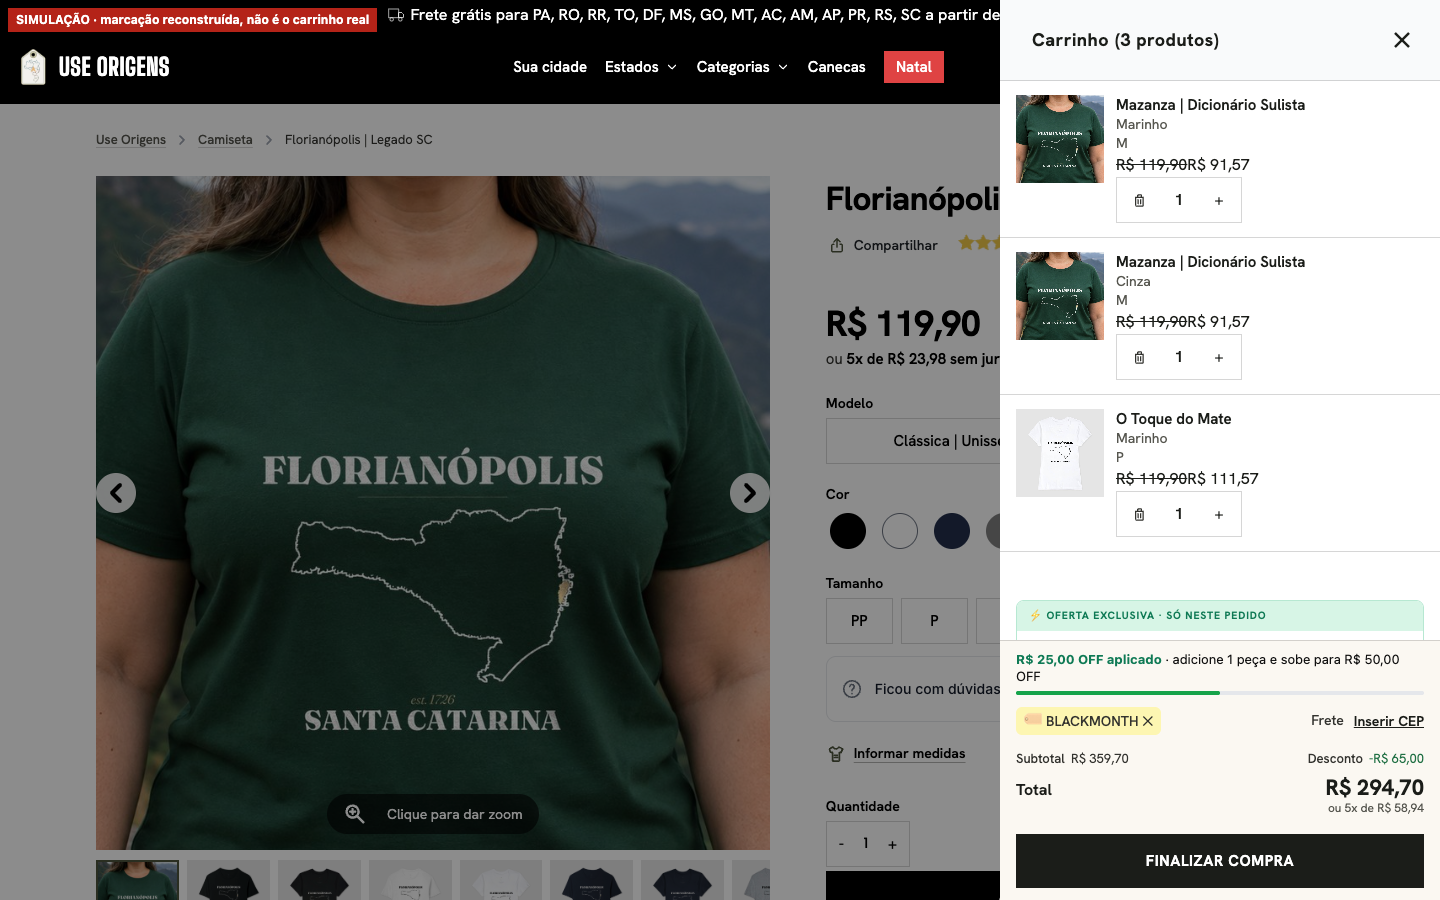
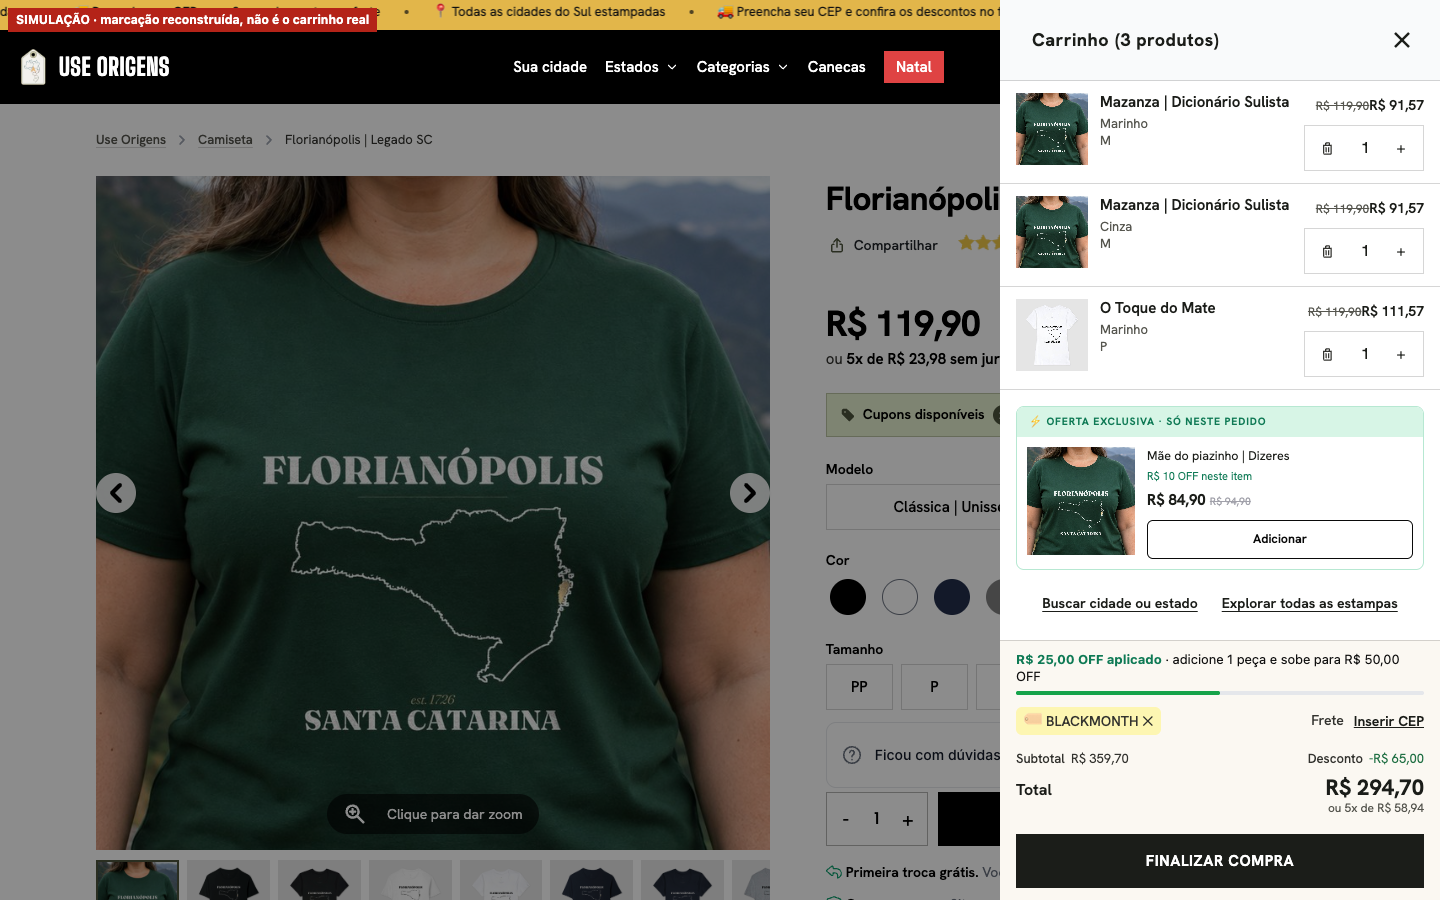
feat(carrinho, pdp): itens compactos na gaveta e quantidade na linha do botão de compra
- Gaveta: cada item em grade (foto 72 px; nome e variação à esquerda; preço e
  quantidade empilhados à direita), sem as folgas da INK: ~175 → 118 px por
  item, e a oferta exclusiva sobe para acima do rodapé com 3 peças no celular.
  Botões de quantidade seguem com 44 px.
- PDP: a quantidade sai do fim das escolhas e vai para a linha do botão
  ([− 1 +] [Adicionar ao carrinho]), no mesmo form; texto do botão numa linha
  em 360 px.
- Prévia: as features da produção (size-fit desligada desde 31/10).

diff --git a/src/theme.js b/src/theme.js
@@ -288,6 +288,7 @@ function cookieCss() {
 function pdpCss() {
   const F = P + ' form[id^="form-product-"]';
   const T = F + ' .form-product-options__select-type';
+  const Q = F + ' .form-product-options__add-to-cart:has(> [data-origens-qty])';
   return [
     stripCss(P), headerCss(),
     P + '{background:var(--o-ground);color:var(--o-ink);font-family:var(--o-font)}',
@@ -346,7 +347,7 @@ function pdpCss() {
     F + ' > .flex.flex-col.items-start.gap-1 p.font-medium.text-base{color:var(--o-ink-soft);font-size:15px;font-weight:400}',
     F + ' > .flex.flex-col.items-start.gap-1 :is(.text-green-500,.lg\\:text-green-600){color:var(--o-ink)!important;font-weight:600}',
     F + ' del,' + F + ' .line-through{color:var(--o-ink-mute)}',
-    // Escolhas: uma coluna (modelo › cor › tamanho › medidas › quantidade — a quantidade é posta depois das medidas no DOM pelo theme-ui).
+    // Escolhas: uma coluna (modelo › cor › tamanho › medidas). A quantidade vai para a linha do botão de compra (theme-ui, data-origens-qty).
     T + '{flex-direction:column!important;flex-wrap:nowrap!important;align-items:stretch!important;gap:20px!important;margin-bottom:4px!important}',
     T + ' > div:has(#open-modal-size){margin-top:-10px}',
     T + ' p strong,' + T + ' p{' + groupLabel + '}',
@@ -368,8 +369,20 @@ function pdpCss() {
     T + ' #open-modal-size,' + T + ' button[data-origens-fit]{min-height:44px!important;padding:0!important;border:0!important;background:transparent!important;box-shadow:none!important;color:var(--o-ink)!important;font-size:14px!important;font-weight:600!important;width:auto!important;flex:0 0 auto!important;gap:8px!important}',
     T + ' #open-modal-size .o-size-label,' + T + ' button[data-origens-fit] > span{text-decoration:underline!important;text-underline-offset:4px;text-decoration-color:var(--o-line)!important}',
     T + ' #open-modal-size .o-size-chevron{display:none}',
-    // Quantidade discreta.
+    // Quantidade discreta (onde a INK a deixa, sem o theme-ui).
     T + ' .inline-flex.items-center.px-3.border-solid{border:1px solid var(--o-line-soft)!important;border-radius:var(--o-radius)!important;min-height:44px;background:var(--o-surface)}',
+    // Quantidade NA LINHA do botão ([− 1 +] [Adicionar ao carrinho], o padrão do celular), quando o theme-ui a move para antes do botão: mesma altura do
+    // botão, o rótulo "Quantidade" só para leitor de tela; a confiança e os pagamentos continuam embaixo, na largura toda. Sem o atributo, como a INK desenha.
+    Q + '{flex-direction:row!important;flex-wrap:wrap;align-items:stretch;column-gap:10px!important;row-gap:18px!important}',
+    Q + ' > [data-origens-qty]{flex:0 0 auto;gap:0!important}',
+    Q + ' > [data-origens-qty] > p{position:absolute;width:1px;height:1px;margin:0;overflow:hidden;clip:rect(0 0 0 0);white-space:nowrap}',
+    Q + ' > [data-origens-qty] > div{flex:1 1 auto}',
+    Q + ' > [data-origens-qty] .inline-flex.items-center{height:100%;min-height:52px;padding:0 2px!important;border:1px solid var(--o-line)!important;border-radius:var(--o-radius)!important;background:var(--o-surface)}',
+    Q + ' > [data-origens-qty] button{width:34px!important;min-width:0!important;min-height:44px;margin:0!important;padding:0!important;font-size:20px;color:var(--o-ink)}',
+    Q + ' > [data-origens-qty] input[name="quantity"]{width:28px!important;height:44px!important;margin:0!important;padding:0!important;font-size:16px!important;color:var(--o-ink)}',
+    // O texto do botão numa linha só em 360 px: o recuo lateral menor (era 24 px) e sem quebra; em telas menores ele ainda pode quebrar.
+    Q + ' > #add-to-cart-desk{flex:1 1 0;min-width:0;width:auto!important;padding:0 10px!important;letter-spacing:.02em}',
+    Q + ' > :not([data-origens-qty]):not(#add-to-cart-desk){flex:1 0 100%}',
     // CTA: largura total da coluna; mesmo botão, mesmo clique e mesma validação da INK.
     btn(F + ' #add-to-cart-desk,' + F + ' #add-to-cart-mob'),
     F + ' #add-to-cart-desk{width:100%;max-width:none}',
@@ -420,6 +433,7 @@ function pdpCss() {
 
 function cartCss() {
   const D = C + ' .cart-drawer';
+  const ITEM = D + '__main .main-list__item .item-wrapper:has(> header > div > .item-details):has(> .item-details__footer)';
   const PAIR = D + '__footer[data-origens-pair]:not(:has(> #cep-form [data-ink-store--cart-target="cepInputContainer"]:not(.hidden)))';
   return [
     // Painel: compra em primeiro plano. Cabeçalho enxuto; itens separados por linha fina; rodapé com o resumo e UMA ação principal.
@@ -432,21 +446,27 @@ function cartCss() {
     D + '__header .top-header > span .text-gray-500{color:var(--o-ink-mute)!important;font-weight:400;font-size:14px!important}',
     D + '__header #cart-drawer-close{width:28px!important;height:28px!important;min-width:28px;cursor:pointer;color:var(--o-ink)}',
     D + '__main{background:var(--o-surface)!important}',
-    D + '__main .main-list__item{border-bottom:1px solid var(--o-line-soft);padding:14px 16px!important;gap:12px}',
-    D + '__main .main-list__item > img{width:88px!important;height:88px!important;max-width:88px;flex:0 0 88px;object-fit:cover;background:var(--o-photo);border-radius:var(--o-radius)}',
-    D + '__main .main-list__item .item-wrapper .item-header{font-size:15px;font-weight:600;color:var(--o-ink)}',
-    D + '__main .main-list__item .item-wrapper .item-details > span,' + D + '__main .main-list__item .item-wrapper .item-details p{color:var(--o-ink-mute);font-size:14px}',
-    D + '__main .main-list__item .item-wrapper .item-details > p:first-child{color:var(--o-ink);font-weight:600;font-size:15px}',
-    D + '__main .main-list__item .item-wrapper .item-details .price span{color:var(--o-ink);font-weight:600}',
-    // Preço numa linha só, mesmo com nome longo (o nome é que quebra).
-    D + '__main .main-list__item .item-wrapper .price-details{flex:0 0 auto;padding-left:8px}',
-    D + '__main .main-list__item .item-wrapper :is(.price,.price span,.price del){white-space:nowrap}',
-    D + '__main .main-list__item .item-wrapper .item-details > :is(span,p){line-height:1.35}',
-    D + '__main .main-list__item .item-wrapper .item-details .price del{color:var(--o-ink-mute)}',
+    // Item compacto (marcação real de 08/11/2026: img + .item-wrapper > header > div > [.item-details, preço] + .item-details__footer): foto de 72 px;
+    // nome e variação à esquerda; preço e quantidade empilhados à direita. Antes cada item tinha ~175 px de altura e empurrava a oferta exclusiva para
+    // baixo do rodapé. A grade só vale com essa estrutura (:has); outra marcação fica no fluxo de antes.
+    D + '__main .main-list__item{border-bottom:1px solid var(--o-line-soft);padding:12px 16px!important;gap:12px;align-items:flex-start}',
+    D + '__main .main-list__item > img{width:72px!important;height:72px!important;max-width:72px;flex:0 0 72px;object-fit:cover;background:var(--o-photo);border-radius:var(--o-radius)}',
+    ITEM + '{display:grid!important;grid-template-columns:minmax(0,1fr) auto;grid-template-rows:auto 1fr;column-gap:12px;row-gap:8px;align-items:start;min-height:72px}',
+    ITEM + ' > header,' + ITEM + ' > header > div{display:contents!important}',
+    ITEM + ' .item-details{grid-column:1;grid-row:1 / 3;min-width:0;gap:0!important}',
+    ITEM + ' > header > div > :not(.item-details){grid-column:2;grid-row:1;justify-self:end;text-align:right;padding:0!important}',
+    ITEM + ' > .item-details__footer{grid-column:2;grid-row:2;align-self:end;justify-self:end;margin:0!important;padding:0!important}',
+    D + '__main .main-list__item .item-wrapper .item-details p{margin:0;padding:0!important;color:var(--o-ink-mute);font-size:13px;line-height:1.35}',
+    ITEM + ' > .item-details__footer :is(form,form > div){margin:0!important;padding:0!important}',
+    D + '__main .main-list__item .item-wrapper .item-details > p:first-child{margin-bottom:2px;color:var(--o-ink);font-weight:600;font-size:15px;line-height:1.3}',
+    ITEM + ' > header > div > :not(.item-details) span{white-space:nowrap;font-size:14px;font-weight:600;color:var(--o-ink)}',
+    ITEM + ' > header > div > :not(.item-details) del{font-size:12px;font-weight:400;color:var(--o-ink-mute)}',
     D + '__main .main-list__item .item-wrapper .item-details__quantity{border:1px solid var(--o-line-soft);border-radius:var(--o-radius);width:fit-content!important;max-width:100%}',
     D + '__main .main-list__item .item-wrapper .item-details__quantity button{width:44px!important;height:44px!important}',
-    D + '__main .main-list__item .item-wrapper .item-details__quantity .quantity-input{width:36px!important;text-align:center}',
-    D + '__main .main-list__item .item-wrapper .item-details__quantity .quantity-input{font-weight:600;color:var(--o-ink)}',
+    D + '__main .main-list__item .item-wrapper .item-details__quantity .quantity-input{width:30px!important;text-align:center;font-weight:600;color:var(--o-ink)}',
+    // Menos vão entre a lista e a oferta exclusiva (o !pb-6 da INK e a margem do cartão).
+    D + '__main > ul{padding-bottom:4px!important}',
+    D + '__main #order-bump-offer{margin-top:12px!important;margin-bottom:8px!important}',
     // Lixeira em tinta, não vermelha: é um controle de uso comum, não um alerta.
     D + '__main .main-list__item .item-wrapper .item-details__quantity svg[class*="text-red"]{color:var(--o-ink-soft)!important}',
     // Rodapé: cupom e CEP em segundo plano (linhas compactas), total em destaque, "Finalizar compra" como única ação principal.

diff --git a/test/theme.unit.test.js b/test/theme.unit.test.js
@@ -94,6 +94,9 @@ test('CSS: never hides INK purchase content; display/visibility only where liste
     // e o campo do CEP fechado; e o alvo de 44 px do "Inserir CEP" (a INK alterna o campo do CEP, não este link).
     'body[data-origens-theme~="cart"] .cart-drawer__footer[data-origens-pair]:not(:has(> #cep-form [data-ink-store--cart-target="cepInputContainer"]:not(.hidden)))',
     'body[data-origens-theme~="cart"] .cart-drawer__footer__cep [data-action*="insertCep"]',
+    // Item do carrinho compacto: grade no .item-wrapper e `contents` no cabeçalho dele, contêineres que a INK nunca alterna, só com a estrutura esperada (:has).
+    'body[data-origens-theme~="cart"] .cart-drawer__main .main-list__item .item-wrapper:has(> header > div > .item-details):has(> .item-details__footer)',
+    'body[data-origens-theme~="cart"] .cart-drawer__main .main-list__item .item-wrapper:has(> header > div > .item-details):has(> .item-details__footer) > header,body[data-origens-theme~="cart"] .cart-drawer__main .main-list__item .item-wrapper:has(> header > div > .item-details):has(> .item-details__footer) > header > div',
     'body[data-origens-theme~="cart"] .cart-drawer .empty-cart:has([data-origens-empty]) #most_sold_frame > div > span:first-child',
     'body[data-origens-theme~="cart"] [data-origens-discovery="post-add"] :is(.o-eyebrow,.o-lead)',
     'body[data-origens-theme~="checkout"] nav.bg-store-primary a:has([data-origens-brand])',
@@ -136,9 +139,9 @@ test('CSS: never hides INK purchase content; display/visibility only where liste
   assert.ok(k.includes('html:has(> body[data-origens-theme~="checkout"]){scroll-padding-top:48px}'));
   assert.ok(/@media \(max-width:767px\)\{html:has\(> body\[data-origens-theme~="checkout"\] div\.fixed\.bottom-0 button\.md\\:hidden\)\{scroll-padding-bottom:104px\}\}/.test(k));
   assert.ok(!buildThemeCss(t, ['pdp', 'cart']).includes('scroll-padding'), 'only the checkout touches scroll-padding');
-  // Carrinho: preço de cada item numa linha; botões de quantidade/remover com 44 px.
+  // Carrinho: preço de cada item numa linha; botões de quantidade/remover com 44 px (o item compacto não encolhe o alvo de toque).
   const c = buildThemeCss(t, ['cart']);
-  assert.ok(c.includes(':is(.price,.price span,.price del){white-space:nowrap}') && c.includes('.item-details__quantity button{width:44px!important;height:44px!important}'));
+  assert.ok(c.includes(':not(.item-details) span{white-space:nowrap') && c.includes('.item-details__quantity button{width:44px!important;height:44px!important}'));
 });
 
 test('incentive: só ligado, frete grátis por PEÇAS, meta 2–20, UFs desta região; inválido = sem incentivo (o tema continua); atributo só com números e siglas', () => {

diff --git a/src/loader/theme-ui.js b/src/loader/theme-ui.js
@@ -223,13 +223,16 @@ export const THEME_UI = String.raw`
       }
       anchor = node;
     }
-    // Guia/Informar medidas antes da quantidade (o quadro de variantes é re-renderizado pela INK: refeito a cada render).
+    // Quantidade NA LINHA do botão de compra ([− 1 +] [Adicionar ao carrinho]), o padrão do celular: antes ela fechava a coluna de escolhas, logo acima do
+    // botão e com outro espaçamento. Continua dentro do mesmo <form> e do mesmo quadro de variantes (re-renderizado pela INK: refeito a cada render).
     const type = frame.querySelector('.form-product-options__select-type');
-    const links = type && [...type.children].find((c) => c.querySelector('#open-modal-size'));
-    const qty = type && [...type.children].find((c) => c.querySelector(':scope > div.inline-flex'));
-    if (links && qty && (qty.compareDocumentPosition(links) & Node.DOCUMENT_POSITION_FOLLOWING)) {
-      const prev = qty.previousElementSibling;
-      themeMove(qty, () => links.after(qty), () => { if (prev && prev.isConnected) prev.after(qty); });
+    const qty = type && [...type.children].find((c) => c.querySelector(':scope > div.inline-flex input[name="quantity"]'));
+    const buy = frame.querySelector('.form-product-options__add-to-cart');
+    const cta = buy && buy.querySelector(':scope > #add-to-cart-desk');
+    if (qty && cta && qty.parentElement !== buy) {
+      const prev = qty.previousElementSibling; const parent = qty.parentElement;
+      qty.setAttribute('data-origens-qty', '');
+      themeMove(qty, () => cta.before(qty), () => { qty.removeAttribute('data-origens-qty'); if (prev && prev.isConnected) prev.after(qty); else if (parent.isConnected) parent.append(qty); });
     }
   }
 

diff --git a/test/theme-ui.dom.test.js b/test/theme-ui.dom.test.js
@@ -94,12 +94,17 @@ test('uma foto só = sem grade e sem esconder pontos', async () => {
   assert.ok(!body(t).classList.contains('o-thumbs'));
 });
 
-test('ordem do DOM = ordem visual: prazo, cupom e "Também disponível em" depois do quadro de compra; medidas antes da quantidade; desligar devolve', async () => {
+test('ordem do DOM = ordem visual: prazo, cupom e "Também disponível em" depois do quadro de compra; quantidade na linha do botão de compra; desligar devolve', async () => {
   const t = setup();
   assert.deepEqual(formOrder(t), NATIVE_FORM);
   await tick();
   assert.deepEqual(formOrder(t), THEMED_FORM);
-  assert.deepEqual(typeOrder(t).slice(-2), ['o-test-links', 'o-test-qty']);
+  // A quantidade sai do fim das escolhas e vai para logo antes do botão (mesmo <form>, mesmo quadro), marcada para o CSS.
+  const qty = t.doc.getElementById('o-test-qty');
+  assert.equal(typeOrder(t).slice(-1)[0], 'o-test-links');
+  assert.equal(qty.nextElementSibling, t.doc.getElementById('add-to-cart-desk'));
+  assert.ok(qty.hasAttribute('data-origens-qty'));
+  assert.ok(qty.closest('form[id^="form-product-"]'));
   // Muitas mutações não movem de novo nem duplicam nada.
   for (let i = 0; i < 20; i++) t.doc.body.appendChild(t.doc.createElement('i'));
   await tick();
@@ -111,6 +116,7 @@ test('ordem do DOM = ordem visual: prazo, cupom e "Também disponível em" depoi
   await tick();
   assert.deepEqual(formOrder(t), NATIVE_FORM, 'blocos de volta ao lugar nativo');
   assert.deepEqual(typeOrder(t).slice(-2), ['o-test-qty', 'o-test-links']);
+  assert.ok(!qty.hasAttribute('data-origens-qty'));
   assert.equal(thumbs(t).length, 0);
   assert.ok(!body(t).classList.contains('o-thumbs'));
 });
